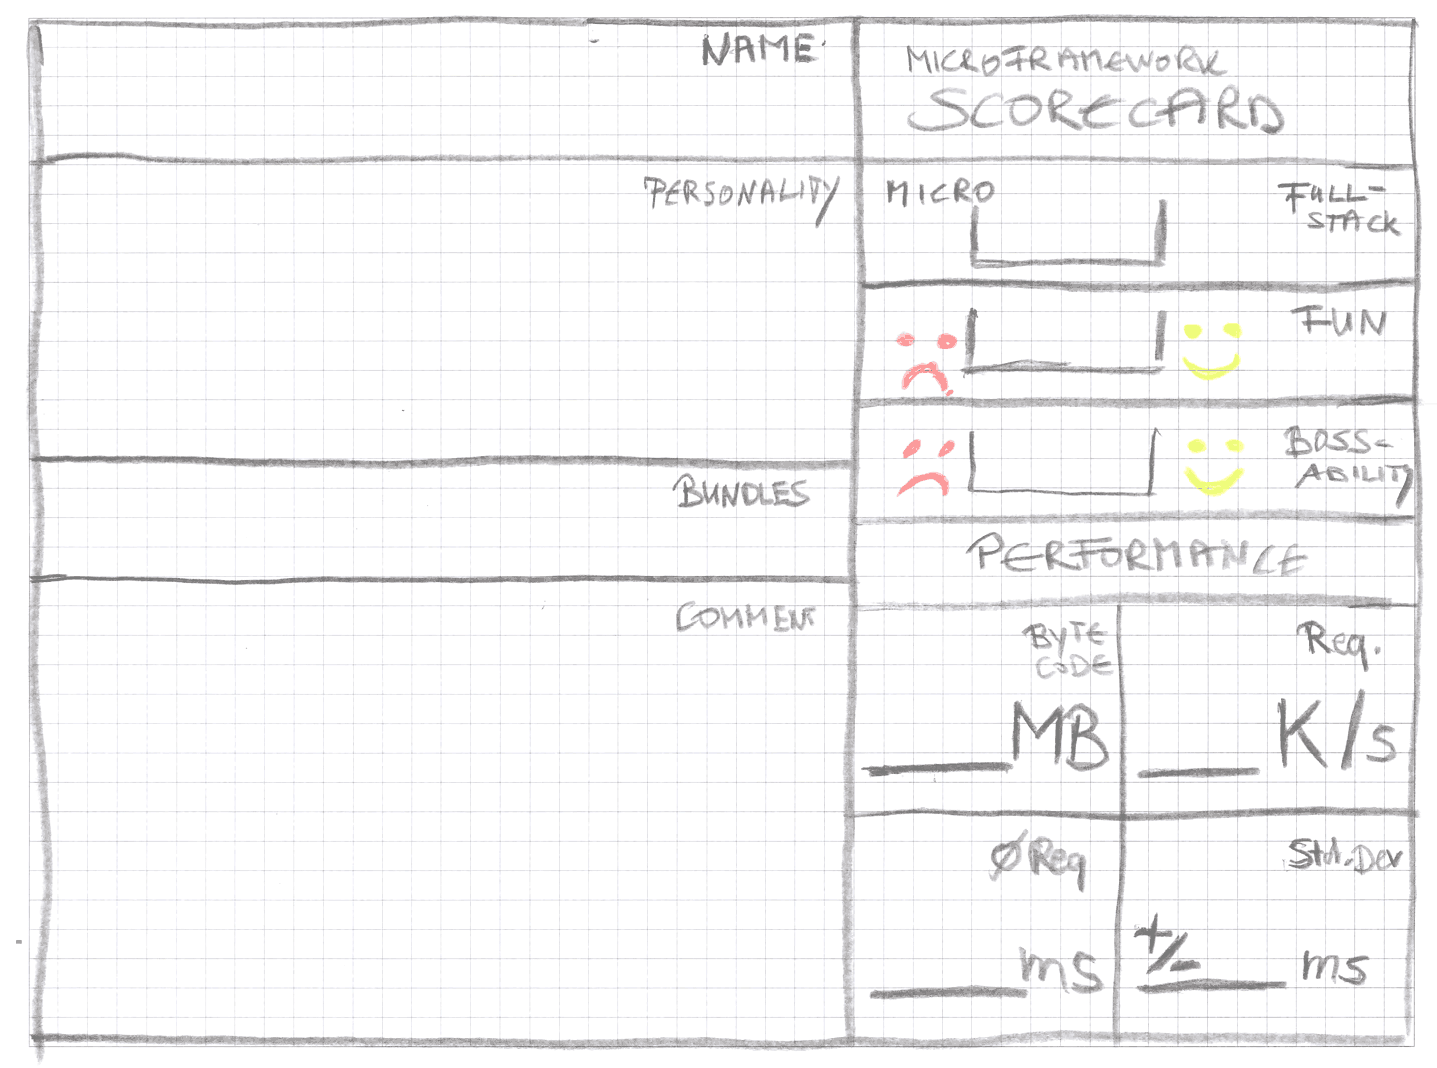
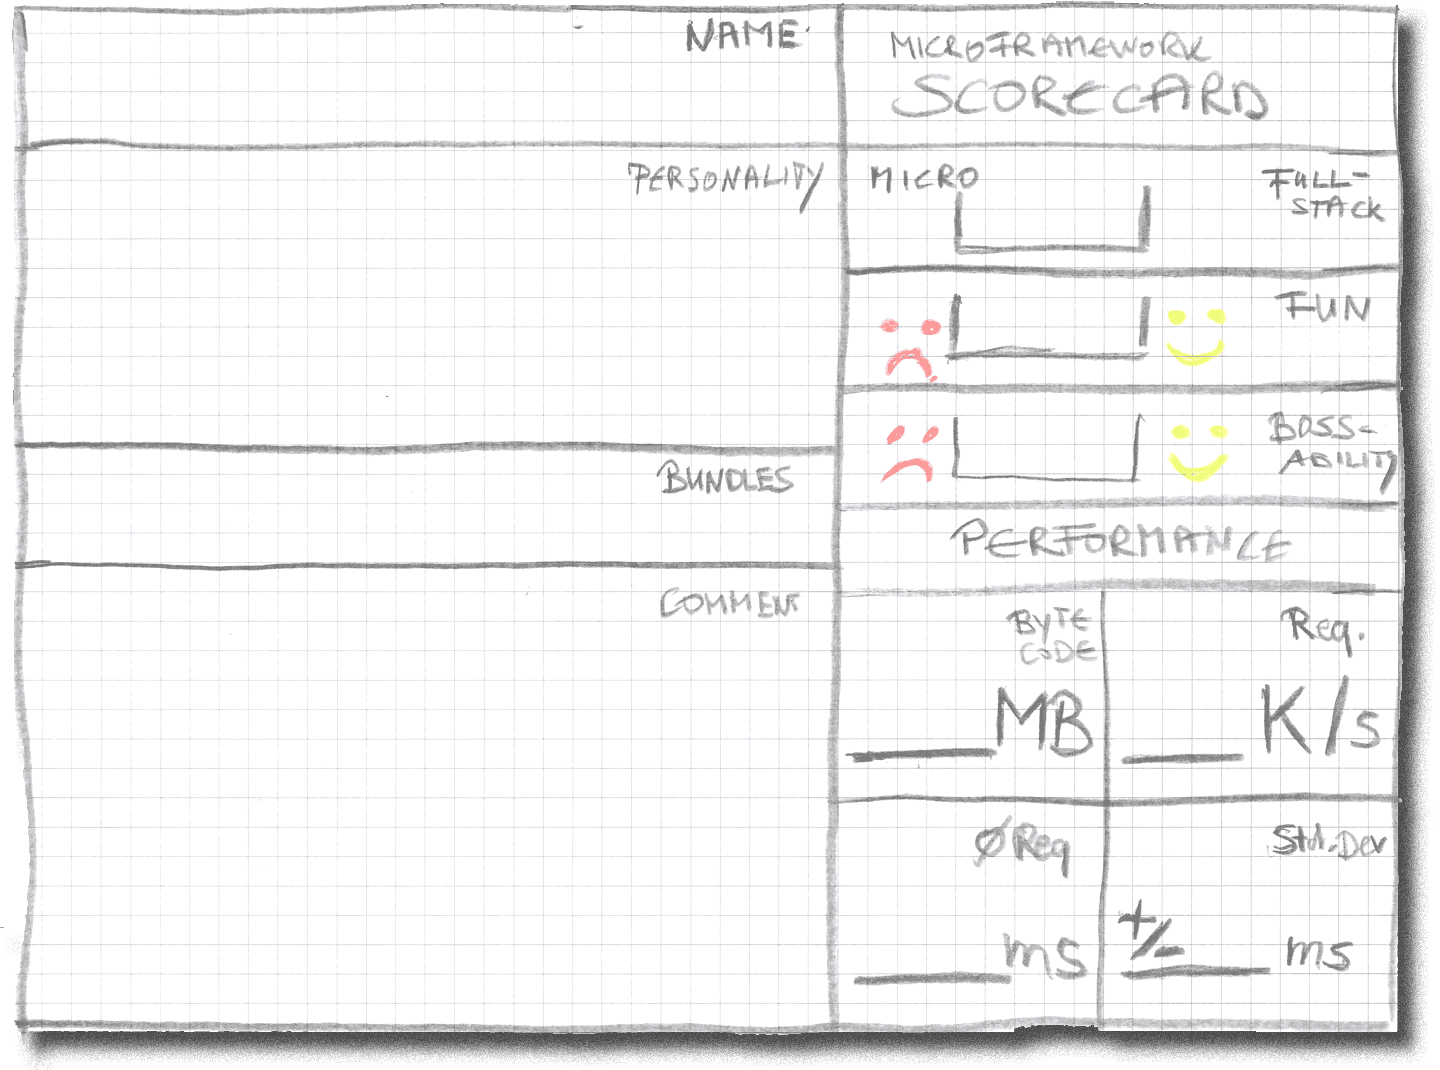
docs(presentation): tweak scorecard transparency

Changed region(s): [[0.0, 0.0, 1.0, 1.0]]

diff --git a/docs/css/custom.css b/docs/css/custom.css
@@ -529,10 +529,9 @@ SECTION.scorecard {
 SECTION.scorecard > DIV {
     background-image: url('../img/scorecard-sheet.png');
     background-size: contain;
-    height: 720px;
-    width: 970px;
+    height: 730px;
+    width: 984px;
     margin: 0 auto;
-    box-shadow: 30px 35px 35px rgba(0, 0, 0, 0.7);
 }
 
 SECTION.scorecard > DIV DIV {
@@ -585,14 +584,8 @@ SECTION.scorecard > DIV .comment p {
     line-height: 1em;
 }
 
-SECTION.scorecard > DIV .micro {
-    left: 814px;
-    top: 140px;
-}
-
 SECTION.scorecard > DIV .micro, SECTION.scorecard > DIV .fun, SECTION.scorecard > DIV .boss {
-    left: 814px;
-    top: 140px;
+    left: 816px;
     font-size: 168%;
     font-weight: bolder;
     margin: -0.2em 0 .4em 0;
@@ -600,12 +593,17 @@ SECTION.scorecard > DIV .micro, SECTION.scorecard > DIV .fun, SECTION.scorecard 
     color: royalblue;
 }
 
+SECTION.scorecard > DIV .micro {
+    left: 810px;
+    top: 130px;
+}
+
 SECTION.scorecard > DIV .fun {
-    top: 210px;
+    top: 208px;
 }
 
 SECTION.scorecard > DIV .boss {
-    top: 294px;
+    top: 290px;
 }
 
 SECTION.scorecard > DIV .bytecode {
@@ -670,5 +668,6 @@ SECTION.scorecard > DIV .reqdev {
     background-color: rgba(200,200,200,0.8);
 }
 SPAN.ct-label {
+    color: #333;
 }
 

diff --git a/docs/index.html b/docs/index.html
@@ -469,7 +469,7 @@ public class HelloWorld {
 
                     <!-- Position indexes -->
                     <div class="micro">|&nbsp;</div>
-                    <div class="fun">&nbsp;&nbsp;&nbsp;&nbsp;&nbsp;&nbsp;&nbsp;|</div>
+                    <div class="fun">&nbsp;&nbsp;&nbsp;&nbsp;&nbsp;&nbsp;|</div>
                     <div class="boss">&nbsp;&nbsp;&nbsp;&nbsp;|&nbsp;</div>
 
 
